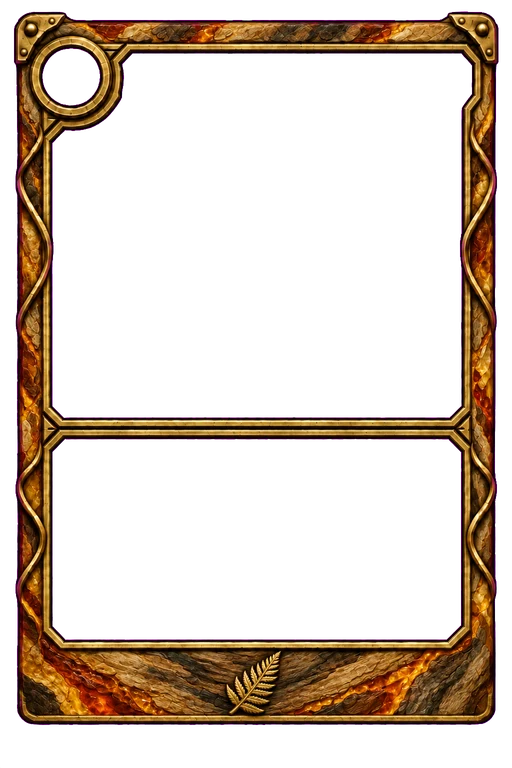
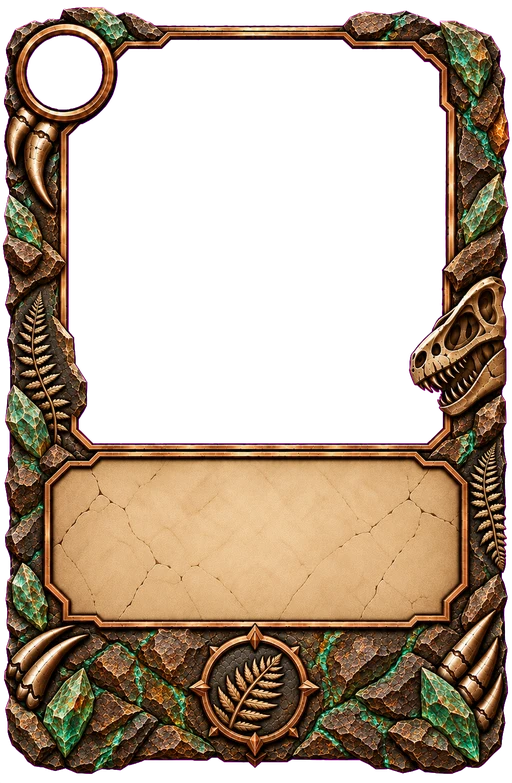
Marco de soporte: clima, evento y recurso estrenan el suyo
Los tres marcos llegaron en magenta y los monta la herramienta de siempre:
`python tools/marcos.py escribir` los keyea y mide sus dos huecos —la ventana
y el aro del coste—, y esos números son los que van en carta.css.

Los tres caen dentro de medio punto en todo, aro incluido, así que la
geometría va una sola vez en `.carta.con-marco.no-dino` y no una por familia
como en las criaturas. El aro viene dibujado y hueco, así que la chapa de
Biomasa que lo suplía se apaga; la caja es papel pintado en el PNG y ahí la
tinta va oscura; y sin banda de nombre la ventana sube hasta el borde —51,5 %
del alto contra el 45,9 % de una criatura—.

La caja se midió sobre el papel (58,99 % a 79,11 %) y se dejó en 22,8 puntos
de alto, los mismos que tenía el marco viejo, y no en los 21,8 que salían de
copiar los márgenes de la criatura: con 21,8 el nombre de dos líneas de 48
cartas de soporte perdía medio píxel por abajo en la mano y en el tablero.
Las cuatro que ya se cortaban antes se siguen cortando igual, que su nombre
pide tres líneas y en la colección caben dos.

Y el cuerpo del visor baja a 10,5/12 px como en las criaturas, que la Crecida
estacional se cortaba. Comprobado sobre las 144: ninguna desborda.

Claude-Session: https://claude.ai/code/session_01Q85Z2YG2ZkA5G7j4CyGifz

diff --git a/carta.css b/carta.css
@@ -160,11 +160,50 @@
 /* El especular ya viene pintado en el PNG; el de CSS encima lo emborronaba. */
 .carta.con-marco::before { background: none; }
 
-/* --- familia SOPORTE: clima, evento y recurso --- */
+/* ============================================ el marco del SOPORTE
+   Clima, evento y recurso estrenaron el suyo el 19-09-2026, un día después de
+   las criaturas y con las mismas tres cosas dentro: el aro del coste dibujado
+   y hueco, la caja de PAPEL pintada en el PNG, y el emblema de familia —sol,
+   espiral y helecho— en la piedra del pie. Es lo que sustituye a la rareza:
+   una carta de soporte no la enseña, así que lo que tiene que decirse de un
+   vistazo es de qué familia es.
+
+   No llevan banda de nombre, que su nombre y su habilidad son el mismo, y por
+   eso la ventana sube hasta el borde: 51,5 % del alto contra el 45,9 % de una
+   criatura, y arranca al 5 % en vez de al 13 %.
+
+   La geometría la midió `python tools/marcos.py` sobre los tres PNG —ventana y
+   aro del coste, que son los dos huecos magenta— y los tres caen dentro de
+   medio punto en todo, aro incluido, así que aquí no hace falta una línea por
+   familia como en las criaturas. La caja no es magenta y se midió sobre el
+   papel, con el mismo margen que se le dejó a la de las criaturas. */
 .carta.con-marco.no-dino {
-  --ven-x0: 10.3%; --ven-x1: 9.9%;  --ven-y0: 7.0%;  --ven-alto: 47.4%;
-  --pla-x0: 10.2%; --pla-x1: 10.2%; --pla-y0: 57.2%; --pla-y1: 16.7%;
+  --ven-x0: 13%;    --ven-x1: 12.5%;  --ven-y0: 5%;     --ven-alto: 51.5%;
+  --pla-x0: 13%;    --pla-x1: 13%;    --pla-y0: 58%;    --pla-y1: 19.2%;
+  --cos-cx: 12.5%;  --cos-cy: 9.24%;
 }
+/* El aro del coste viene dibujado, así que la chapa de Biomasa se apaga: es el
+   mismo caso que las tres chapas de las criaturas. La cifra cae sobre hueco
+   —el fondo oscuro de la carta— y se queda en claro. */
+.carta.con-marco.no-dino .c-chapa { display: none; }
+/* Sobre papel: el nombre y el texto. */
+.carta.con-marco.no-dino .c-nombre { color: #38200c; }
+.carta.con-marco.no-dino .c-texto { color: #2e2113; }
+/* La caja se queda con el relleno de siempre —`3% 5% 0`— y NO con el que se
+   apretó para las criaturas: aquí lleva el NOMBRE con hasta tres líneas, no un
+   título de dos, y el punto y medio de relleno de abajo le comía media línea a
+   toda carta de soporte de dos líneas en la mano y en el tablero. El visor
+   tiene el suyo aparte. */
+/* Y el cuerpo del visor baja lo mismo que en las criaturas y por lo mismo: la
+   caja perdió un punto de alto al crecer la ventana, y con el cuerpo de
+   siempre la Crecida estacional —112 letras, el texto más largo del set— se
+   cortaba por abajo. */
+.carta--visor.con-marco.no-dino .c-texto {
+  font: 400 10.5px/12px 'Libre Baskerville', Georgia, serif;
+}
+.carta--visor.con-marco.no-dino .c-texto.largo { font-size: 9.5px; line-height: 10.8px; }
+.carta--visor.con-marco.no-dino .c-cuerpo { gap: 3px; }
+.carta--visor.con-marco.no-dino .c-nombre { line-height: 18px; }
 
 .con-marco .c-marco {
   position: absolute; inset: 0; z-index: 2; pointer-events: none;

diff --git a/test/entera.test.js b/test/entera.test.js
@@ -76,3 +76,26 @@ test('las CUATRO rarezas de criatura llevan el marco nuevo, y el jefe no', () =>
     assert.match(css, new RegExp(`\\.carta\\.con-marco\\.m-dino_${r}[^{]*\\{[^}]*--cos-cx:`), r);
   }
 });
+
+test('las tres familias de soporte llevan su marco, con el aro del coste dentro', () => {
+  for (const [id, clase] of [['llanura', 'm-clima'], ['trampa', 'm-evento'],
+    ['rebrote', 'm-recurso'], ['biomasa', 'm-recurso']]) {
+    const html = cartaHTML(id, { variante: 'col' });
+    assert.ok(html.includes(clase), id);
+    assert.ok(html.includes('no-dino'), `${id} sin la clase que comparte la geometría`);
+  }
+  // Los tres marcos midieron el mismo aro dentro de medio punto, así que va una
+  // sola vez y no una por familia, como sí pasa en las criaturas.
+  assert.match(css, /\.carta\.con-marco\.no-dino\s*\{[^}]*--cos-cx:/);
+  // Y viene dibujado: la chapa de Biomasa que lo suplía se apaga, igual que las
+  // tres de las criaturas.
+  assert.match(css, /\.carta\.con-marco\.no-dino \.c-chapa\s*\{\s*display:\s*none/);
+  // La caja es PAPEL pintado en el PNG: ahí la tinta va oscura.
+  assert.match(css, /\.carta\.con-marco\.no-dino \.c-nombre\s*\{\s*color:\s*#38200c/);
+  assert.match(css, /\.carta\.con-marco\.no-dino \.c-texto\s*\{\s*color:\s*#2e2113/);
+  // La ventana sube hasta el borde: sin banda de nombre, arranca mucho más
+  // arriba que la de una criatura y es más alta.
+  const bloque = css.match(/\.carta\.con-marco\.no-dino\s*\{([^}]*)\}/)[1];
+  assert.ok(Number(bloque.match(/--ven-y0:\s*([\d.]+)%/)[1]) < 6, 'la ventana de soporte arranca arriba');
+  assert.ok(Number(bloque.match(/--ven-alto:\s*([\d.]+)%/)[1]) > 50, 'y es más alta que la de una criatura');
+});

diff --git a/sw.js b/sw.js
@@ -17,7 +17,7 @@
 //
 // Al cambiar cualquier fichero servido hay que subir VERSION: activa la limpieza
 // de las cachés anteriores.
-const VERSION = 'dinowar-v148';
+const VERSION = 'dinowar-v149';
 const ESENCIALES = [
   './', './index.html', './style.css', './piel.css', './carta.css', './efectos.css', './manifest.json', './src/main.js',
   // Lo primero que se ve. La marca y la pantalla de carga tienen que estar

diff --git a/CLAUDE.md b/CLAUDE.md
@@ -1417,8 +1417,9 @@ que el resto de gestos.
 
 Ocho marcos en `assets/marcos/`: cinco de criatura —cuatro rarezas y el jefe— y
 uno por familia de soporte, sin rareza. **Las cuatro rarezas de criatura
-estrenaron un juego nuevo el 18 y el 19-09-2026** y tienen su sección aquí
-abajo; el jefe y las tres de soporte siguen con el dibujo viejo.
+estrenaron un juego nuevo el 18 y el 19-09-2026, y las tres familias de soporte
+el 19**, y tienen sus dos secciones aquí abajo; **el único que sigue con el
+dibujo viejo es el del jefe**.
 Los originales son PNG de 1024×1536 con los huecos en magenta `#FF00FF`, fuera
 del repositorio; `python tools/marcos.py escribir` los keyea a WebP y **mide
 los huecos**, y esos números son los que van en `carta.css`. No se estiman.
@@ -1509,9 +1510,48 @@ piedra sin oro** en la común, **cristal azul** en la rara, **amatista** en la
 un rombo encendido, y por eso se cambió: el oro es lo que distingue a la de
 arriba.
 
-Quedan cuatro en este estilo: el jefe y las tres familias de soporte, con esta
-misma geometría y el material como único cambio; las de soporte, sin banda y sin
-los dos huecos de cifras.
+Queda uno en este estilo: el del JEFE. Las tres familias de soporte llegaron el
+19-09-2026 y tienen su sección aquí abajo.
+
+### El marco del soporte: clima, evento y recurso, con emblema en vez de rareza
+
+Un día después de las criaturas llegaron los tres de soporte, con el mismo
+lenguaje —aro del coste dibujado y hueco, caja de PAPEL pintada en el PNG— y
+dos cosas propias:
+
+- **No llevan banda de nombre**, porque el nombre de una carta de soporte y el
+  de su habilidad son la misma cosa y van en la caja. Por eso la **ventana sube
+  hasta el borde**: arranca al 5 % del alto contra el 13 % de una criatura y
+  mide el 51,5 % contra el 45,9 %. Es la ventana más grande del juego.
+- **En el pie va un EMBLEMA de familia y no una fila de rombos**, porque una
+  carta de soporte no tiene rareza que enseñar —los tres marcos son uno por
+  familia, sin rareza, desde que se rehicieron—: un sol para el evento, una
+  espiral para el clima y un helecho para el recurso. Y el material acompaña:
+  **roca oscura con latón y lava ámbar** en el evento, **roca gris azulada con
+  acero pálido y cristal verdeazulado** en el clima, **roca parda con cobre y
+  cristales de óxido verde** en el recurso.
+
+Y tres cosas de la medida, que es donde estuvo el trabajo:
+
+- **Los tres caen dentro de medio punto en TODO**, aro del coste incluido
+  (cx 12,50 los tres; cy entre 9,11 y 9,38). Así que aquí no hace falta una
+  línea por familia como en las criaturas: la geometría va una sola vez, en
+  `.carta.con-marco.no-dino`, que es la clase que `claseFamilia()` ya emitía.
+- **La caja no es magenta y se midió sobre el papel**, como en las criaturas:
+  58,99 % a 79,11 %, o sea **20,1 puntos de papel, más alto que los 19,15 de
+  una criatura** y más arriba.
+- **Y la caja del CSS se puso en 22,8 puntos y no en los 21,8 que salían de
+  copiar los márgenes de la criatura.** Con 21,8 el nombre de dos líneas de
+  TODA carta de soporte perdía medio píxel por abajo en la mano y en el
+  tablero —48 cartas, medido comparando contra `main`— porque ahí la línea son
+  10 px y dos no entraban. Con 22,8 vuelven a entrar y el número es el mismo
+  que tenía el marco viejo. Las cuatro que ya se cortaban antes
+  —«Canal trenzado», «Bosque ribereño», «Rebrote tras incendio» y «Humedal»—
+  se siguen cortando igual: es que su nombre pide tres líneas y en la
+  colección sólo caben dos. No es de este marco y no se tocó.
+- **El cuerpo del visor baja a 10,5/12 px** como en las criaturas, que la
+  Crecida estacional —112 letras, el texto más largo del set— se cortaba.
+  Comprobado sobre las 144: ninguna desborda.
 
 ### La carta ENTERA: las cinco de jefe van a sangre
 
@@ -1575,8 +1615,8 @@ Lo que se miró al lado de Crown War y NO se copió: su estilo pintado tipo
 anime —el fotorrealismo es lo que nos distingue—, su tipografía sin sistema, y
 que la rareza no se lea en la carta. La ventana grande para TODAS las cartas
 —que era lo que quedaba de aquello— se empezó por el marco legendario de aquí
-arriba; hoy lo llevan las cuatro rarezas de criatura y faltan el jefe y las
-tres familias de soporte.
+arriba; hoy lo llevan las cuatro rarezas de criatura y las tres familias de
+soporte, y falta el del jefe.
 
 Y una cosa que se midió antes de descartarla: **llevar la carta entera a todo
 el set no funciona.** Las criaturas ganan en el visor, sí, pero a 83 px el
